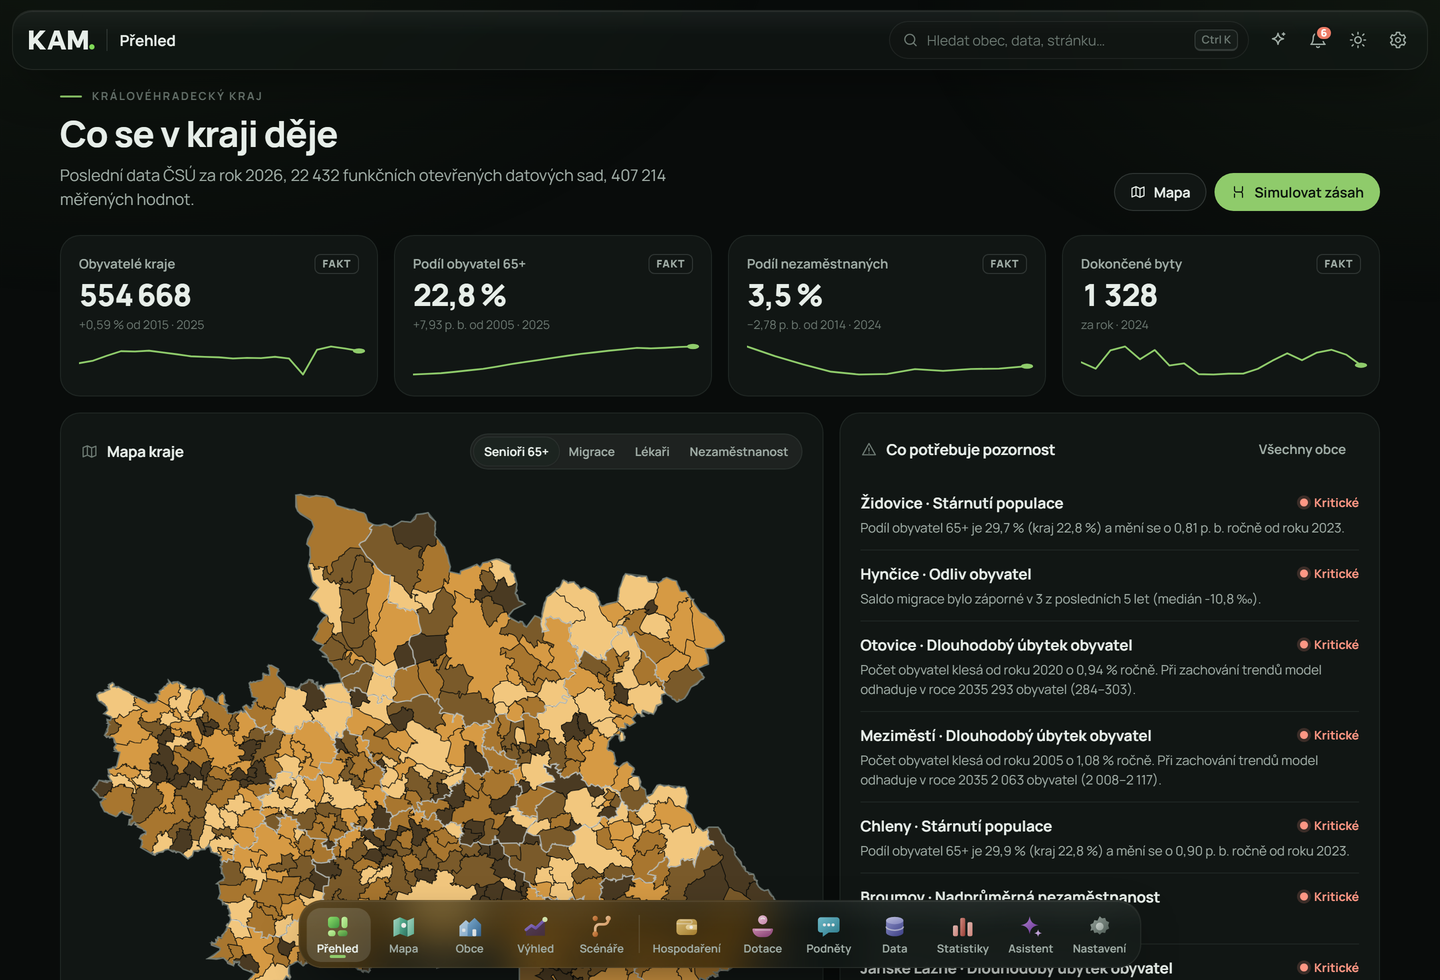
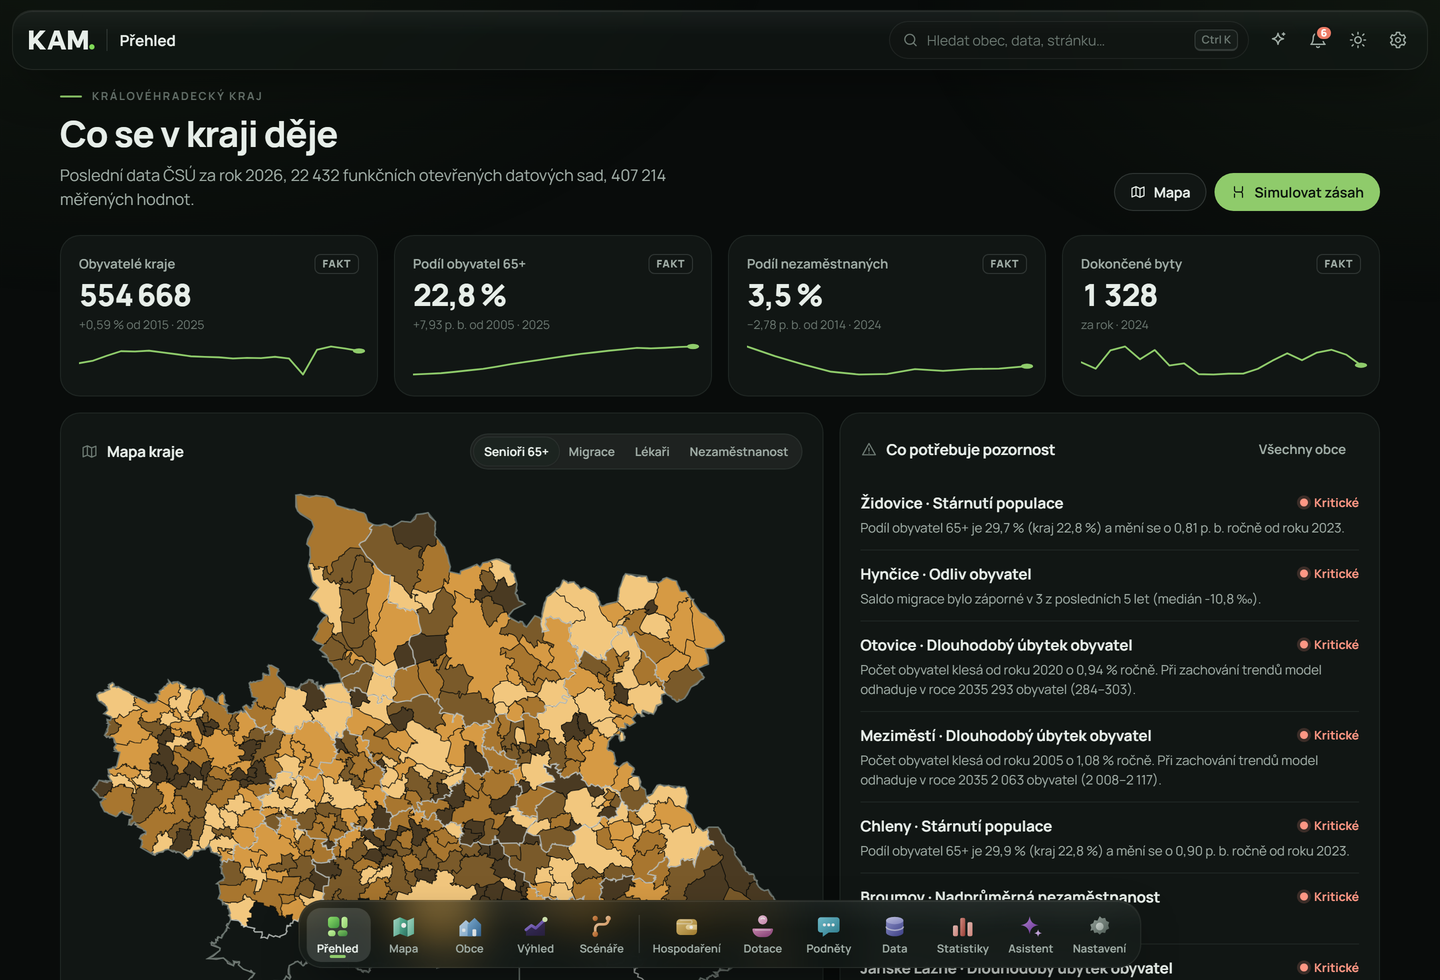
Stránka obcí má svůj hook: všech 448 obcí najednou
Scénáře otevírá kresba té jedné myšlenky, o které stránka je. Obce začínaly
nadpisem a rovnou seznamem, i když mají svou myšlenku taky: kraj není jedno
místo, je jich 448 a nejsou si ani trochu podobné.

Jedna tečka je jedna obec, plocha odpovídá počtu obyvatel. Vodorovná osa je
logaritmická — na lineární by se devadesát procent obcí slilo do jednoho
chumlu u nuly a vpravo by zbyl jeden puntík. Rozvržení je beeswarm: bod se
posadí na svou hodnotu a pak se posouvá kolmo, dokud nenajde místo, kde
nikoho nepřekrývá. Ten tvar sám je odpověď: hejno malých vlevo, řídnoucí
řada měst vpravo, Hradec Králové sám.

Tečky jsou data, ne ozdoba, a berou se ze stejného seznamu, který je pod tím.
Tři z nich mají prstenec a vedle nadpisu odkaz — největší, medián a nejmenší
obec. Medián je Jeřice s 383 obyvateli; nejmenší Kostelec má 38.

Sklo, panely i rozvržení jsou převzaté z hooku scénářů. Kdyby se kreslily
znovu, začaly by se obě stránky rozcházet při první úpravě.

Screenshot je i v README.

Changed region(s): [[0.3125, 0.9184, 0.5312, 1.0], [0.125, 0.9184, 0.2812, 1.0]]

diff --git a/frontend/src/components/ObceHook.tsx b/frontend/src/components/ObceHook.tsx
@@ -1,0 +1,164 @@
+// Otevření stránky obcí: jedna myšlenka, nakreslená.
+//
+// Kraj není jedno místo, je jich čtyři sta čtyřicet osm — a nejsou si ani
+// trochu podobné. Jedna tečka je jedna obec, plocha odpovídá počtu obyvatel
+// a vodorovná osa je logaritmická, protože jinak by se devadesát procent
+// obcí slilo do jednoho chumlu u nuly a zbyl by jeden puntík vpravo.
+//
+// Tečky jsou skutečná data, ne ozdoba: pozice i velikost se počítají z počtu
+// obyvatel, který přišel ze stejného zdroje jako seznam pod tím. Než data
+// dorazí, panel zůstane prázdný — ne že by si vymyslel tvar.
+//
+// Rozvržení je „beeswarm": bod se posadí na svou hodnotu na ose a pak se
+// posouvá kolmo, dokud nenajde místo, kde nikoho nepřekrývá. Proto se velké
+// obce vpravo rozestoupí a hejno malých vlevo zhoustne — ten tvar sám je
+// odpověď na otázku, jak vypadá kraj.
+
+import { useId, useMemo } from "react";
+import { Icon } from "./Icon";
+import { num } from "../lib/format";
+
+export interface ObecBod { id: string; name: string; population: number }
+
+const W = 640, H = 262;
+const PAD = { l: 26, r: 26, t: 26, b: 40 };
+const MEZERA = 0.9;        // odstup teček, aby se nedotýkaly
+const R_MIN = 2.1, R_MAX = 23;
+
+interface Bod extends ObecBod { x: number; y: number; r: number }
+
+function rozmisti(obce: ObecBod[]): { body: Bod[]; min: Bod; max: Bod; median: Bod } | null {
+  const platne = obce.filter((o) => o.population > 0);
+  if (platne.length < 8) return null;
+  const serazene = [...platne].sort((a, b) => a.population - b.population);
+  const lo = Math.log(serazene[0].population);
+  const hi = Math.log(serazene[serazene.length - 1].population);
+  const sirka = W - PAD.l - PAD.r;
+  const cy = PAD.t + (H - PAD.t - PAD.b) / 2;
+  const X = (p: number) => PAD.l + ((Math.log(p) - lo) / Math.max(hi - lo, 1e-6)) * sirka;
+  // Plocha úměrná počtu obyvatel: poloměr tedy odmocnina. Kdyby rostl lineárně,
+  // Hradec Králové by zabral celý panel a zbytek by nebyl vidět.
+  const kMax = Math.sqrt(serazene[serazene.length - 1].population);
+  const R = (p: number) => R_MIN + (R_MAX - R_MIN) * (Math.sqrt(p) / kMax) ** 1.35;
+
+  const body: Bod[] = [];
+  for (const o of serazene) {
+    const x = X(o.population);
+    const r = R(o.population);
+    let y = cy;
+    for (let k = 0; k < 260; k++) {
+      // 0, +krok, −krok, +2·krok … — bod se zkouší posadit co nejblíž ose.
+      const krok = Math.ceil(k / 2) * (r * 1.15 + 1.1);
+      const cand = cy + (k % 2 ? krok : -krok);
+      if (cand - r < PAD.t || cand + r > H - PAD.b) continue;
+      let volno = true;
+      // Sousedé jsou jen ti, kteří mohou na téhle ose vůbec dosáhnout; pole
+      // je seřazené podle x, takže stačí couvat, dokud je to blízko.
+      for (let j = body.length - 1; j >= 0; j--) {
+        const b = body[j];
+        const dx = x - b.x;
+        if (dx > b.r + R_MAX + MEZERA) break;
+        const dy = cand - b.y;
+        const min = b.r + r + MEZERA;
+        if (dx * dx + dy * dy < min * min) { volno = false; break; }
+      }
+      if (volno) { y = cand; break; }
+    }
+    body.push({ ...o, x, y, r });
+  }
+  return {
+    body,
+    min: body[0],
+    max: body[body.length - 1],
+    median: body[Math.floor(body.length / 2)],
+  };
+}
+
+export function ObceHook({ obce, loading, onOpen, children }: {
+  obce: ObecBod[]; loading?: boolean; onOpen?: (id: string) => void; children?: React.ReactNode;
+}) {
+  const uid = useId().replace(/[^a-zA-Z0-9]/g, "");
+  const art = useMemo(() => rozmisti(obce), [obce]);
+
+  const odkaz = (b: Bod | undefined, popis: string) => b && (
+    <a className="ob-kotva" href={`/obce/${b.id}`} onClick={(e) => { if (onOpen && e.button === 0 && !e.metaKey && !e.ctrlKey) { e.preventDefault(); onOpen(b.id); } }}>
+      <span className="ob-kotva-popis">{popis}</span>
+      <strong>{b.name}</strong>
+      <span className="num">{num(b.population)} obyv.</span>
+    </a>
+  );
+
+  return (
+    <section className="sc-hook ob-hook" aria-labelledby={`${uid}-t`}>
+      <div className="sc-blobs" aria-hidden="true"><i className="sc-blob b1" /><i className="sc-blob b2" /><i className="sc-blob b3" /></div>
+
+      <div className="sc-hook-copy">
+        <div className="eyebrow">Živé profily</div>
+        <h1 id={`${uid}-t`}>Kraj není jedno místo.{art && <><br />Je jich {num(art.body.length)}.</>}</h1>
+        <p className="lead">
+          Jedna tečka je jedna obec a její plocha odpovídá počtu obyvatel. Od největšího města po vesnici
+          o pár desítkách lidí — a každá z nich má profil ve všech sledovaných oblastech, rizika i výhled.
+        </p>
+        {art && (
+          <div className="ob-kotvy">
+            {odkaz(art.max, "Největší")}
+            {odkaz(art.median, "Medián")}
+            {odkaz(art.min, "Nejmenší")}
+          </div>
+        )}
+        {children}
+      </div>
+
+      <div className="sc-stage" aria-hidden={art ? undefined : "true"}>
+        <div className="sc-pane p3" />
+        <div className="sc-pane p2" />
+        <div className="sc-pane p1">
+          <span className="sc-sheen" />
+          <svg className="sc-art ob-art" viewBox={`0 0 ${W} ${H}`} preserveAspectRatio="xMidYMid meet"
+            role="img" aria-label={art ? `Všech ${art.body.length} obcí kraje podle počtu obyvatel; největší ${art.max.name}, nejmenší ${art.min.name}` : "Zatím bez dat"}>
+            <defs>
+              <radialGradient id={`${uid}g`}>
+                <stop offset="0%" stopColor="var(--lime)" stopOpacity="0.95" />
+                <stop offset="100%" stopColor="var(--accent)" stopOpacity="0.55" />
+              </radialGradient>
+            </defs>
+
+            {art && (
+              <>
+                {/* Osa zůstává jako čára, čísla ne: krajní hodnoty i medián
+                    jsou vypsané v kotvách vedle, a popisek u pravého konce by
+                    beztak padl pod plovoucí odznak s počtem obcí. */}
+                <line className="ob-osa" x1={PAD.l} x2={W - PAD.r} y1={H - PAD.b + 14} y2={H - PAD.b + 14} />
+
+                <line className="ob-median" x1={art.median.x} x2={art.median.x} y1={PAD.t - 6} y2={H - PAD.b + 8} />
+                <text className="ob-popis stred" x={art.median.x} y={PAD.t - 12} textAnchor="middle">medián {num(art.median.population)}</text>
+
+                <g className="ob-body">
+                  {art.body.map((b, i) => (
+                    <circle key={b.id} cx={b.x} cy={b.y} r={b.r}
+                      fill={b.r > 6 ? `url(#${uid}g)` : "var(--accent)"}
+                      opacity={0.42 + Math.min(b.r / R_MAX, 1) * 0.55}
+                      style={{ ["--i" as string]: i % 60 }} />
+                  ))}
+                </g>
+                {/* Tři body, které se v textu jmenují, dostanou prstenec —
+                    jinak by se v hejnu nedaly najít. */}
+                {[art.min, art.median, art.max].map((b) => (
+                  <circle key={`k${b.id}`} className="ob-kruh" cx={b.x} cy={b.y} r={b.r + 4.5} />
+                ))}
+              </>
+            )}
+          </svg>
+          {art && (
+            <div className="sc-delta glass">
+              <Icon name="home" size={14} />
+              <strong>{num(art.body.length)}</strong>
+              <span>obcí v kraji</span>
+            </div>
+          )}
+          {!art && loading && <span className="skeleton" style={{ position: "absolute", inset: 18, borderRadius: 14 }} />}
+        </div>
+      </div>
+    </section>
+  );
+}

diff --git a/frontend/src/styles/pages.css b/frontend/src/styles/pages.css
@@ -677,6 +677,31 @@
 .table th.is-on, .table td.is-on { background: color-mix(in oklab, var(--accent) 8%, transparent); }
 .table th.is-on { color: var(--text); }
 
+/* ------------------------------------------------------- hook stránky obcí
+   Stejné sklo a stejné rozvržení jako u scénářů (`.sc-hook`), jiná kresba.
+   Hejno teček je husté, proto se nájezd dělá po skupinách po šedesáti —
+   448 vlastních zpoždění by prohlížeč počítal zbytečně dlouho. */
+.ob-hook .sc-hook-copy h1 { text-wrap: balance; }
+.ob-kotvy { display: flex; flex-wrap: wrap; gap: 8px; margin-top: 18px; }
+.ob-kotva { display: grid; gap: 1px; padding: 9px 13px; border-radius: var(--r-md); text-decoration: none;
+  border: 1px solid var(--border); background: var(--glass); color: var(--text); min-height: 44px;
+  transition: border-color var(--t-xs), background var(--t-xs); }
+.ob-kotva:hover { border-color: var(--accent-line); background: var(--accent-soft); }
+.ob-kotva strong { font-size: .875rem; line-height: 1.2; }
+.ob-kotva-popis { font-size: .625rem; font-weight: 800; letter-spacing: .12em; text-transform: uppercase; color: var(--text-mute); }
+.ob-kotva .num { font-size: .75rem; color: var(--text-dim); }
+
+.ob-art .ob-osa { stroke: var(--border-strong); stroke-width: 1; }
+.ob-art .ob-popis { fill: var(--text-mute); font-size: 10px; font-weight: 650; }
+.ob-art .ob-popis.stred { fill: var(--text-dim); }
+.ob-art .ob-median { stroke: var(--text-mute); stroke-width: 1; stroke-dasharray: 3 4; opacity: .6; }
+.ob-art .ob-kruh { fill: none; stroke: var(--lime); stroke-width: 1.4; opacity: .75; }
+.ob-art .ob-body circle { animation: ob-bod 520ms var(--ease-spring) both; animation-delay: calc(var(--i, 0) * 7ms); }
+@keyframes ob-bod { from { opacity: 0; transform: scale(.2); } }
+.ob-art .ob-body circle { transform-box: fill-box; transform-origin: center; }
+
+:root[data-motion="reduce"] .ob-art .ob-body circle { animation: none; }
+
 @media (pointer: coarse) {
   .icon-btn { width: 44px; height: 44px; }
   .icon-btn.sm { width: 40px; height: 40px; }

diff --git a/frontend/src/pages/Territories.tsx b/frontend/src/pages/Territories.tsx
@@ -1,7 +1,8 @@
 import { useMemo, useState, type CSSProperties, type MouseEvent } from "react";
 import { Icon } from "../components/Icon";
+import { ObceHook } from "../components/ObceHook";
 import { useTerritories } from "../components/TerritoryPicker";
-import { Empty, PageHeader, Segmented } from "../components/ui";
+import { Empty, Segmented } from "../components/ui";
 import { fold, num, plural } from "../lib/format";
 import { navigate, setQuery, useLocation } from "../lib/router";
 
@@ -25,9 +26,13 @@ export function Territories() {
     navigate(`/obce/${id}`);
   };
 
+  // Hook kreslí vždycky obce, ne to, co je zrovna vybrané: je to úvod ke
+  // stránce, ne pohled na výsledek filtru.
+  const vsechnyObce = useMemo(() => (data ?? []).filter((t) => t.level === "obec"), [data]);
+
   return (
     <>
-      <PageHeader eyebrow="Živé profily" title="Obce a správní obvody" lead="Každé území má profil ve všech sledovaných oblastech, rizika, výhled a zdroje. Vyhledávat lze i bez diakritiky." />
+      <ObceHook obce={vsechnyObce} loading={loading} onOpen={(id) => navigate(`/obce/${id}`)} />
       <div className="terr-toolbar">
         <div className="input-icon">
           <Icon name="search" size={17} />

diff --git a/scripts/screenshots.py b/scripts/screenshots.py
@@ -30,6 +30,7 @@ ZABERY: list[tuple[str, str, int, int, bool]] = [
     ("uvod", "/", 1440, 900, True),
     ("prehled", "/prehled", 1440, 980, False),
     ("mapa-3d", "/mapa?view=khk&3d=1&ind=d_podil_65", 1440, 1000, False),
+    ("obce", "/obce", 1440, 760, False),
     ("profil", "/obce/obec:569810", 1440, 1080, False),
     ("scenare", SCENAR_URL, 1440, 1180, False),
     ("hospodareni", "/hospodareni?t=obec:569810", 1440, 980, False),

diff --git a/README.md b/README.md
@@ -54,6 +54,14 @@ nastavit, najetím zjistíte obec, hodnotu i nadmořskou výšku.
 
 <img src="docs/screenshots/mapa-3d.png" alt="3D mapa kraje s výškovým modelem" width="900">
 
+### Obce
+
+Všech 448 obcí kraje najednou: jedna tečka je jedna obec, plocha odpovídá
+počtu obyvatel a osa je logaritmická — jinak by se devadesát procent obcí
+slilo do jednoho chumlu a zbyl by jeden puntík vpravo.
+
+<img src="docs/screenshots/obce.png" alt="Obce: všech 448 obcí podle počtu obyvatel" width="900">
+
 ### Profil území
 
 Devět oblastí, u každého ukazatele poslední hodnota, srovnání s krajem, zdroj
